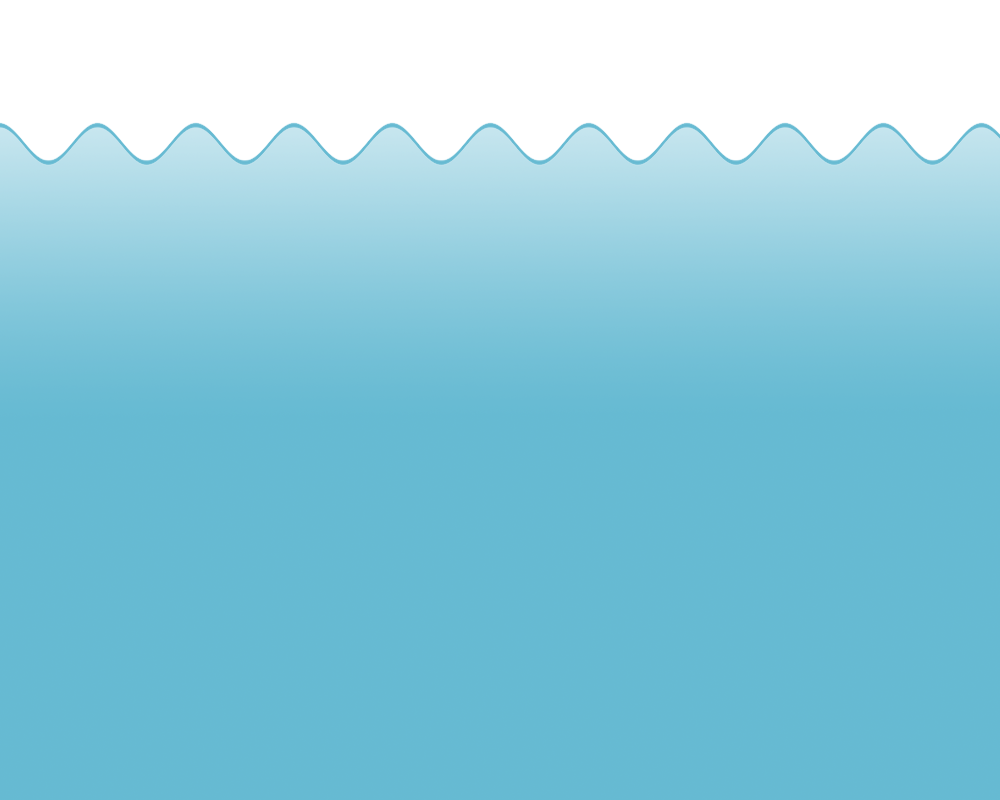
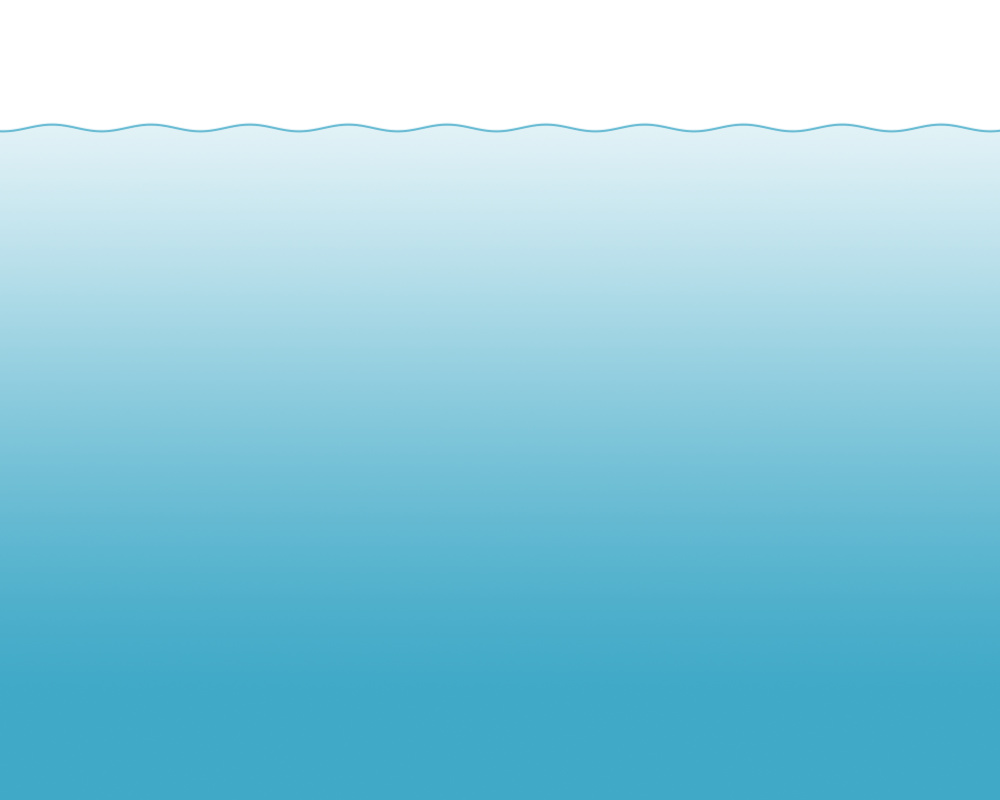
Update wave asset, make its ossilation much smaller

diff --git a/game/ui_widgets/wave_view.js b/game/ui_widgets/wave_view.js
@@ -26,14 +26,14 @@ var WaveView = Views.createViewType(
       this.waterLine.y = newWaterLine;
       this.oldWaterLine = newWaterLine;
 
-      this.rad += 0.01;
-      waterLevel += (Math.sin(this.rad))*15;
+      this.rad += 0.03;
+      waterLevel += (Math.sin(this.rad))*1;
 
       // 0 level: y = game.height - 200
       // 100 level: y = 100
 
       // Clamp the maximum motion of the wave
-      var wantY = this.weather.global.levelToY(waterLevel) - 120;
+      var wantY = this.weather.global.levelToY(waterLevel) - 126;
       var newY = this.lastY + Math.max(Math.min(wantY - this.lastY, 3), -3);
 
       this.wave.y = newY;
